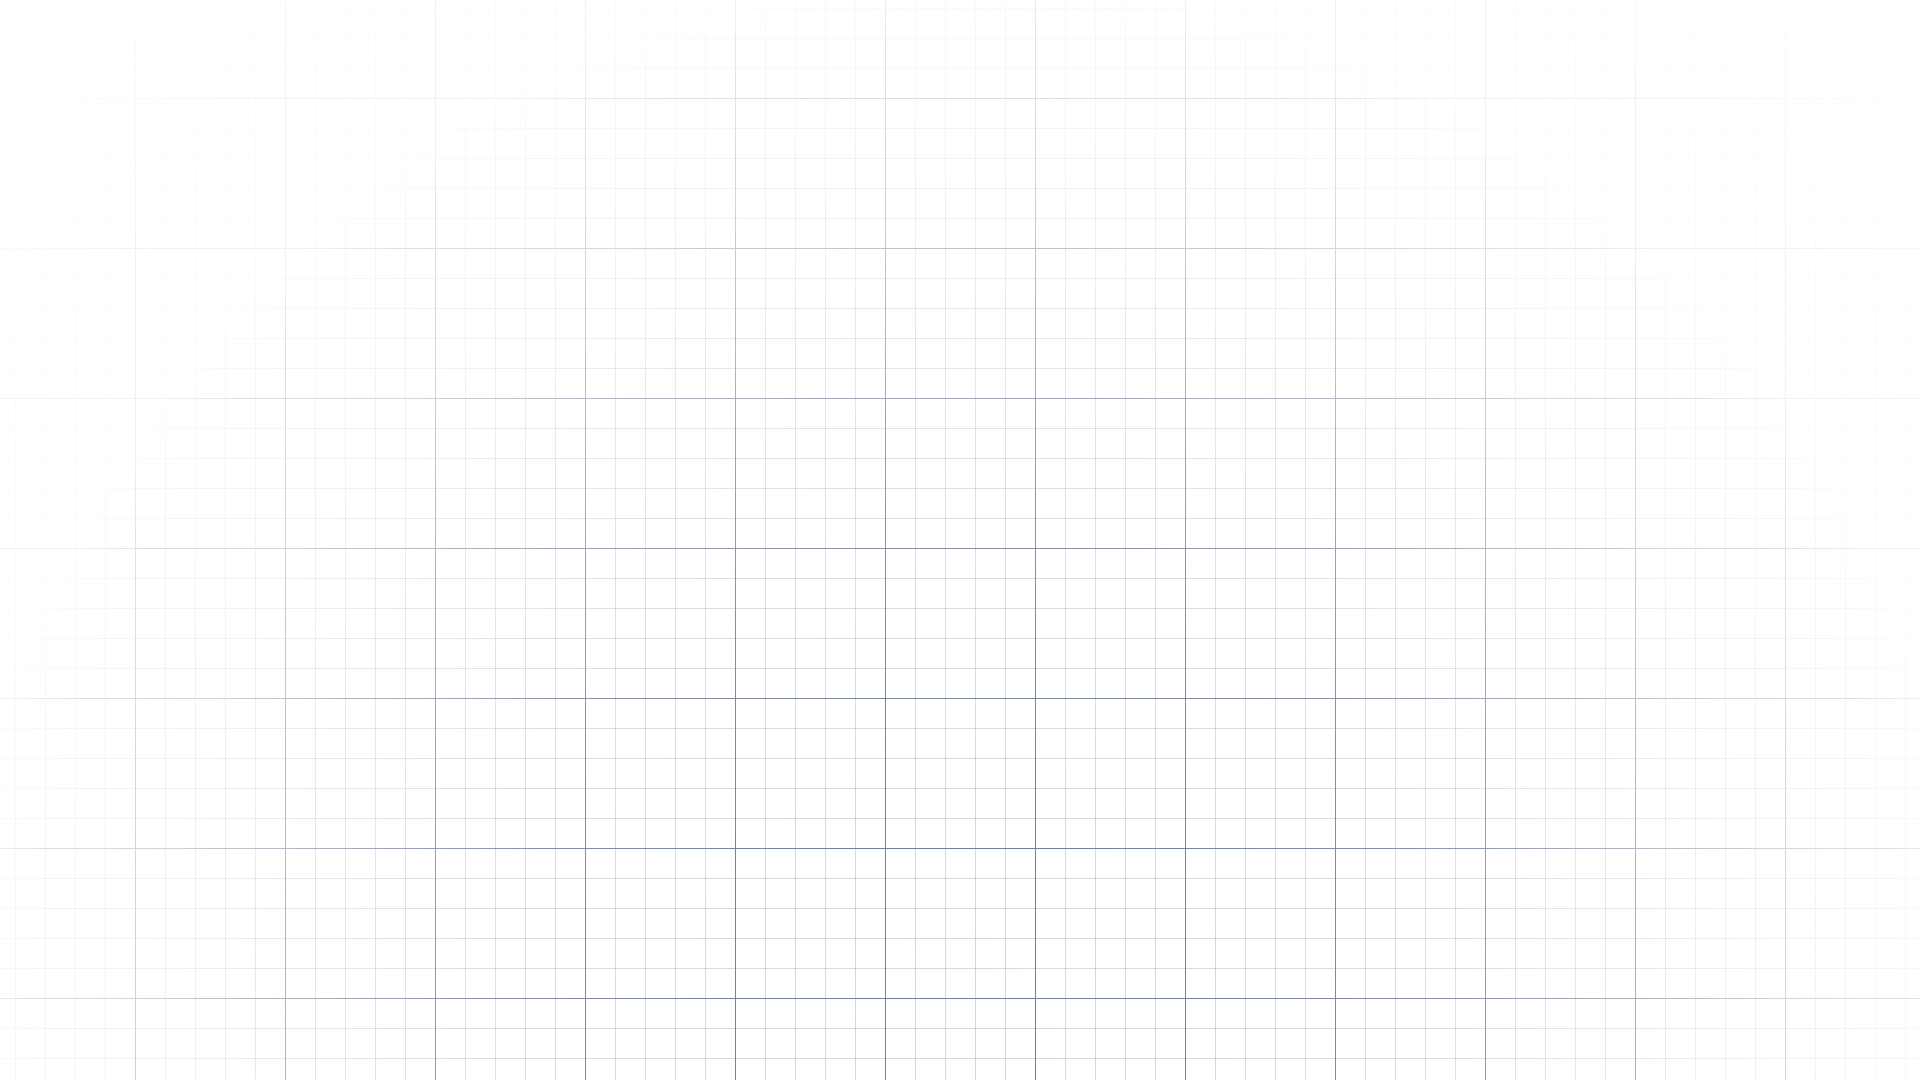
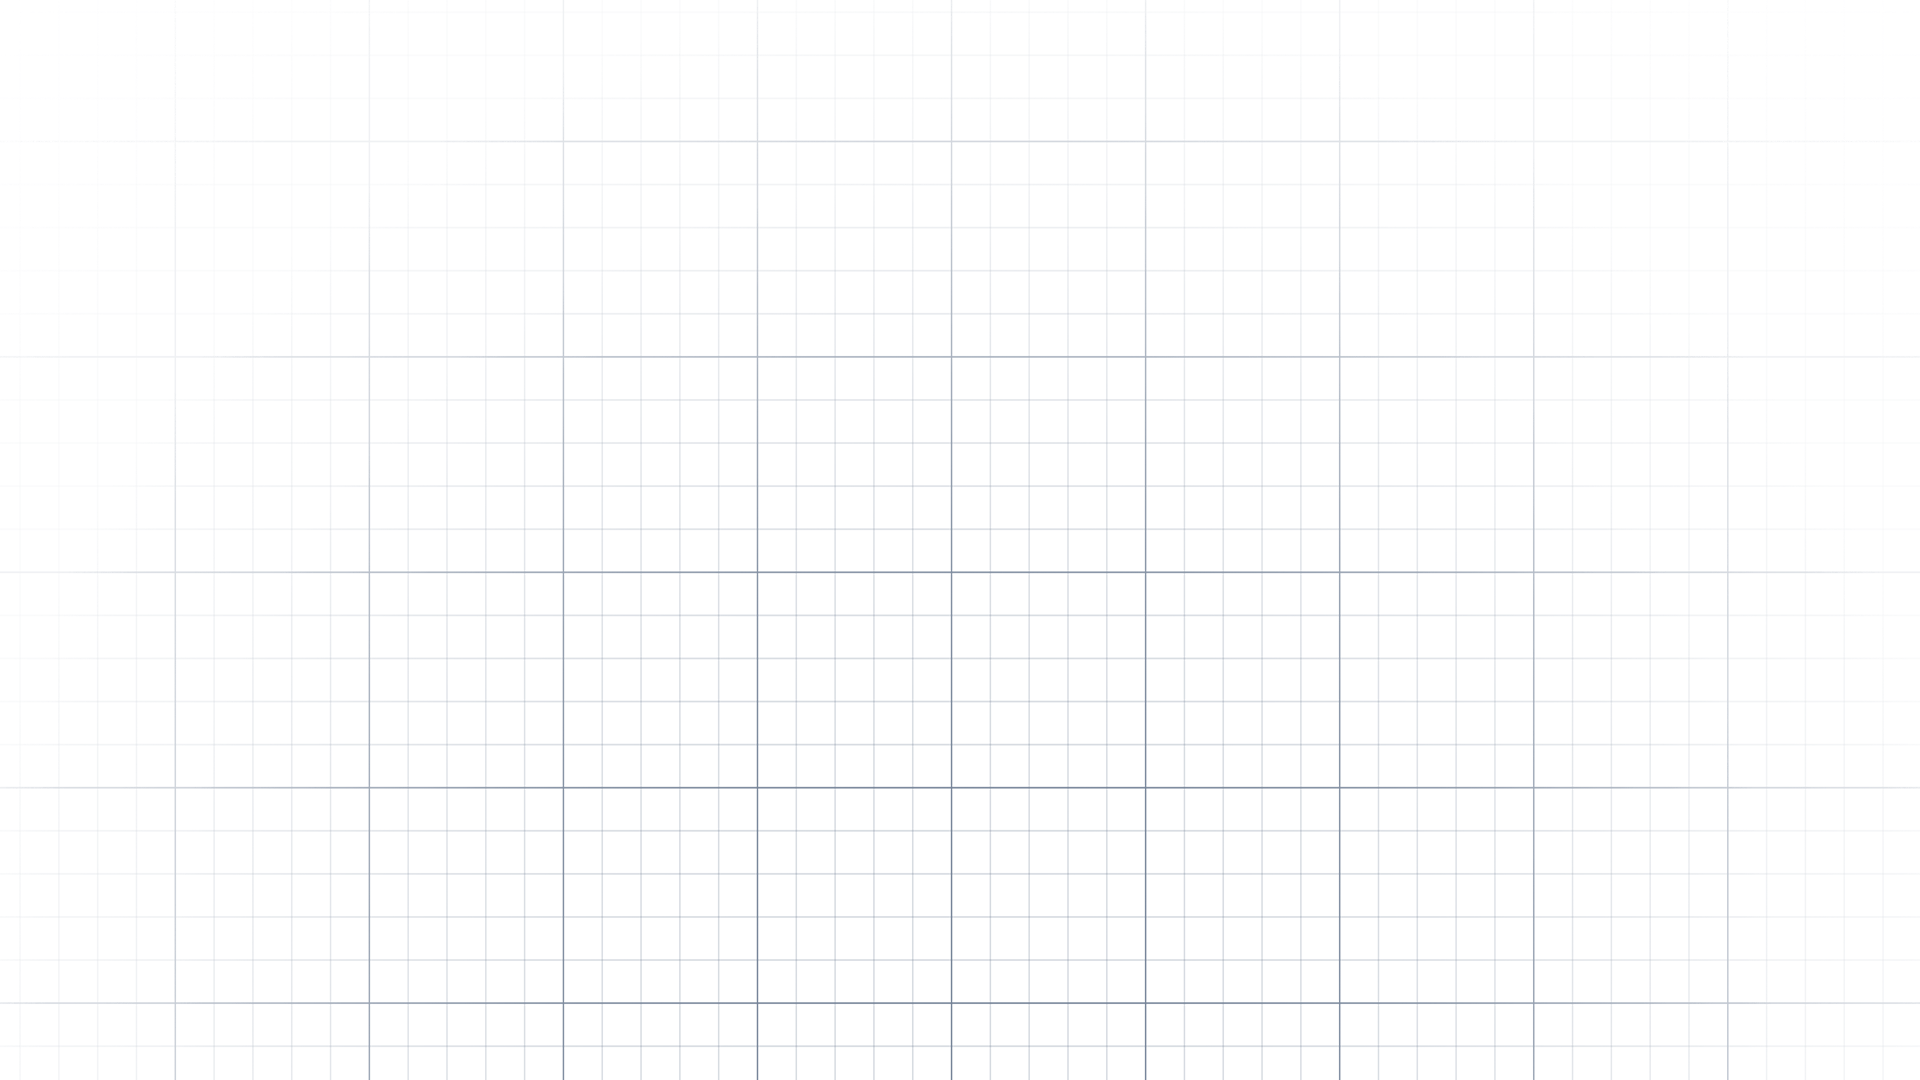
Complete process section for desktop

diff --git a/src/components/animation/process/design-dev.tsx b/src/components/animation/process/design-dev.tsx
@@ -1,0 +1,98 @@
+'use client'
+
+import {motion, useScroll, useTransform} from 'framer-motion'
+import Image from 'next/image'
+import {useEffect, useRef, useState} from 'react'
+
+export const DesignDevAnimation = () => {
+  const container = useRef(null) //@ts-ignore
+  const {scrollYProgress} = useScroll({target: container, offset: ['center end', 'end start']})
+  const scale = useTransform(scrollYProgress, [0, 0.35], [1, 1.11])
+  const typing = useTransform(scrollYProgress, [0, 0.15], [0, 36])
+  const [progress, setProgress] = useState<number>(0)
+  const [typingProgress, setTypingProgress] = useState<number>(0)
+  const typingLine = 'npx create-next-app@latest your-site'
+
+  useEffect(() => {
+    const clearScrollProgress = scrollYProgress.on('change', (value) => setProgress(value * 100))
+    const clearTypingProgress = typing.on('change', (value) => setTypingProgress(Math.ceil(value)))
+    return () => {
+      clearScrollProgress()
+      clearTypingProgress()
+    }
+  }, [])
+
+  return (
+    <div ref={container} className="relative m-16">
+      <motion.div className="relative origin-top-left" style={{scale}}>
+        <Image src="/images/process/design-dev-background.png" alt="Request Background" width="1460" height="1139" />
+        <div className="absolute text-[0.61rem] font-mono text-white px-2 py-1" style={{left: '28%', right: '2%', top: '35%', bottom: '18%'}}>
+          <p>
+            <span className="text-slate-400">{'> '}</span>
+            <span>{typingLine.substring(0, typingProgress)}</span>
+            {typingProgress < 36 && <span>|</span>}
+          </p>
+          {progress > 15 && (
+            <p>
+              {progress <= 20 && <span className="text-sky-400">? </span>}
+              {progress > 20 && <span className="text-green-400">✔ </span>}
+              <span>Would you like to use </span>
+              <span className="text-indigo-400">Typescript</span>
+              <span>? </span>
+              <span className="text-slate-400">…</span>
+              <span> No / </span>
+              <span className="text-sky-400 underline">Yes</span>
+            </p>
+          )}
+          {progress > 20 && (
+            <p>
+              {progress <= 25 && <span className="text-sky-400">? </span>}
+              {progress > 25 && <span className="text-green-400">✔ </span>}
+              <span>Would you like to use </span>
+              <span className="text-indigo-400">ESLint</span>
+              <span>? </span>
+              <span className="text-slate-400">…</span>
+              <span> No / </span>
+              <span className="text-sky-400 underline">Yes</span>
+            </p>
+          )}
+          {progress > 25 && (
+            <p>
+              {progress <= 30 && <span className="text-sky-400">? </span>}
+              {progress > 30 && <span className="text-green-400">✔ </span>}
+              <span>Would you like to use </span>
+              <span className="text-indigo-400">TailwindCSS</span>
+              <span>? </span>
+              <span className="text-slate-400">…</span>
+              <span> No / </span>
+              <span className="text-sky-400 underline">Yes</span>
+            </p>
+          )}
+          {progress > 30 && (
+            <p>
+              {progress <= 34 && <span className="text-sky-400">? </span>}
+              {progress > 34 && <span className="text-green-400">✔ </span>}
+              <span>Would you like to use </span>
+              <span className="text-indigo-400">`src/` directory</span>
+              <span>? </span>
+              <span className="text-slate-400">…</span>
+              <span> No / </span>
+              <span className="text-sky-400 underline">Yes</span>
+            </p>
+          )}
+          {progress > 34 && (
+            <p>
+              <span className="text-sky-400">? </span>
+              <span>Would you like to use </span>
+              <span className="text-indigo-400">App Router</span>
+              <span>? </span>
+              <span className="text-slate-400">…</span>
+              <span> No / </span>
+              <span className="text-sky-400 underline">Yes</span>
+            </p>
+          )}
+        </div>
+      </motion.div>
+    </div>
+  )
+}

diff --git a/src/components/sections/process.tsx b/src/components/sections/process.tsx
@@ -6,6 +6,9 @@ import {Subheading} from '../atoms/subheading'
 import {Section} from '../layout/section'
 import Image from 'next/image'
 import {Button} from '../atoms/button'
+import {RequestAnimation} from '../animation/process/request'
+import {DesignDevAnimation} from '../animation/process/design-dev'
+import {EvolutionAnimation} from '../animation/process/evolution'
 
 type Content = {
   heading: string
@@ -29,7 +32,8 @@ export const Process: FC<{content: Content}> = ({content}) => {
         </Heading>
       </div>
       {content.steps.map(({id, heading, text}, index) => (
-        <div key={index} className="sticky mt-16" style={{top: `${15 + index * 7}rem`}}>
+        <div key={index} className="sticky mt-12" style={{top: `${15 + index * 5}rem`}}>
+          <div className="absolute -top-16 h-32 w-full bg-gradient-to-t from-white via-white/80 dark:from-[#0E1117] dark:via-[#0E1117]" />
           <Card className="grid grid-cols-1 gap-y-16 md:grid-cols-2">
             <div className="p-16 pr-0">
               <div className="flex items-start gap-4 mb-1">
@@ -42,19 +46,22 @@ export const Process: FC<{content: Content}> = ({content}) => {
                 <span dangerouslySetInnerHTML={{__html: text}} />
               </Paragraph>
             </div>
-            <div className="relative overflow-visible">
-              <div className="absolute top-0 left-0 -bottom-32 -right-56">
-                <Image src="/images/background-grid.png" alt="Background Grid" fill className="object-cover object-left-top" />
+            <div className="relative overflow-hidden">
+              <div className="absolute h-2/3 left-0 bottom-0 -right-64">
+                <Image src="/images/background-grid.png" alt="Background Grid" fill className="object-cover object-left-top opacity-50" />
                 <div
-                  className="absolute bottom-0 left-1/2 -translate-x-1/2 bg-indigo-400 w-3/4 h-32 blur-3xl opacity-50"
+                  className="absolute -bottom-16 left-1/2 -translate-x-1/2 bg-indigo-400 w-3/4 h-32 blur-3xl opacity-30"
                   style={{borderRadius: '50% 50%'}}
                 />
               </div>
+              {index === 0 && <RequestAnimation />}
+              {index === 1 && <DesignDevAnimation />}
+              {index === 2 && <EvolutionAnimation />}
             </div>
           </Card>
         </div>
       ))}
-      <div className="sticky h-96 bg-gradient-to-t from-white dark:from-[#0E1117] pb-24 flex items-end justify-center gap-x-2">
+      <div className="sticky h-64 bg-gradient-to-t from-white via-white dark:from-[#0E1117] dark:via-[#0E1117] pb-24 flex items-end justify-center gap-x-2">
         <Button>{content.cta.primary}</Button>
         <Button secondary>{content.cta.secondary}</Button>
       </div>

diff --git a/src/components/animation/process/evolution.tsx b/src/components/animation/process/evolution.tsx
@@ -1,0 +1,46 @@
+'use client'
+
+import {motion, useScroll, useTransform} from 'framer-motion'
+import Image from 'next/image'
+import {useEffect, useRef, useState} from 'react'
+
+export const EvolutionAnimation = () => {
+  const container = useRef(null) //@ts-ignore
+  const {scrollYProgress} = useScroll({target: container, offset: ['center end', 'end start']})
+  const scale = useTransform(scrollYProgress, [0, 0.29], [1, 1.11])
+  const x = useTransform(scrollYProgress, [0, 0.15], ['-33%', '0%'])
+  const y = useTransform(scrollYProgress, [0.12, 0.29], ['100%', '0%'])
+  const typing = useTransform(scrollYProgress, [0.2, 0.29], [0, 16])
+  const [progress, setProgress] = useState<number>(0)
+  const [typingProgress, setTypingProgress] = useState<number>(0)
+  const typingLine = 'New Feature Page'
+
+  useEffect(() => {
+    const clearScrollProgress = scrollYProgress.on('change', (value) => setProgress(value * 100))
+    const clearTypingProgress = typing.on('change', (value) => setTypingProgress(Math.ceil(value)))
+    return () => {
+      clearScrollProgress()
+      clearTypingProgress()
+    }
+  }, [])
+
+  return (
+    <div ref={container} className="relative m-16">
+      <motion.div className="relative origin-top-left" style={{scale}}>
+        <Image src="/images/process/evolution-background.png" alt="Evolution Background" width="1460" height="1139" />
+      </motion.div>
+      <motion.div className="absolute inset-0 origin-top-left" style={{x, scale}}>
+        <Image src="/images/process/evolution-card.png" alt="Evolution Card" width="1460" height="1139" />
+      </motion.div>
+      <motion.div className="absolute inset-0 origin-top-left" style={{y, scale}}>
+        <Image src="/images/process/evolution-figma.png" alt="Evolution Figma Window" width="1460" height="1139" />
+        <div className="absolute flex items-center px-1.5 text-[0.7rem] text-black" style={{left: '38%', right: '37%', top: '53%', bottom: '40%'}}>
+          <p>
+            <span>{typingLine.substring(0, typingProgress)}</span>
+            {typingProgress < 16 && <span>|</span>}
+          </p>
+        </div>
+      </motion.div>
+    </div>
+  )
+}

diff --git a/src/components/animation/rotate.tsx b/src/components/animation/rotate.tsx
@@ -4,9 +4,9 @@ import {FC, ReactNode, Children, useState, useEffect} from 'react'
 
 export const Rotate: FC<{children: ReactNode; speed?: number; className?: string}> = ({children, speed = 1500, className = ''}) => {
   const array = Children.toArray(children)
-  const [currentIndex, setCurrentIndex] = useState<number>(0)
+  const [index, setIndex] = useState<number>(0)
   useEffect(() => {
-    const id = setInterval(() => setCurrentIndex((id) => (id === array.length - 1 ? 0 : id + 1)), speed)
+    const id = setInterval(() => setIndex((id) => (id === array.length - 1 ? 0 : id + 1)), speed)
     return () => {
       clearInterval(id)
     }
@@ -14,21 +14,16 @@ export const Rotate: FC<{children: ReactNode; speed?: number; className?: string
 
   return (
     <div className={`relative ${className}`}>
-      <AnimatePresence initial={false}>
-        {Children.map(children, (child, index) => {
-          if (index === currentIndex)
-            return (
-              <motion.div
-                key={index}
-                initial={{y: '-100%', opacity: 0}}
-                animate={{y: 0, opacity: 1}}
-                exit={{opacity: 0, transition: {duration: 0.2}}}
-                className="absolute whitespace-nowrap top-0 left-0"
-              >
-                {child}
-              </motion.div>
-            )
-        })}
+      <AnimatePresence>
+        <motion.div
+          key={index}
+          initial={{y: '-100%', opacity: 0}}
+          animate={{y: 0, opacity: 1}}
+          exit={{opacity: 0, transition: {duration: 0.2}}}
+          className="absolute whitespace-nowrap top-0 left-0"
+        >
+          {array[index]}
+        </motion.div>
       </AnimatePresence>
     </div>
   )

diff --git a/src/components/animation/process/request.tsx b/src/components/animation/process/request.tsx
@@ -1,0 +1,24 @@
+'use client'
+
+import {motion, useScroll, useTransform} from 'framer-motion'
+import Image from 'next/image'
+import {useRef} from 'react'
+
+export const RequestAnimation = () => {
+  const container = useRef(null) //@ts-ignore
+  const {scrollYProgress} = useScroll({target: container, offset: ['center end', 'end start']})
+  const x = useTransform(scrollYProgress, [0, 0.4], ['0%', '53%'])
+  const y = useTransform(scrollYProgress, [0, 0.06, 0.12, 0.4], [0, 16, 24, 0])
+  const scale = useTransform(scrollYProgress, [0, 0.4], [1, 1.11])
+
+  return (
+    <div ref={container} className="relative my-16 ml-16">
+      <motion.div className="origin-top-left" style={{scale}}>
+        <Image src="/images/process/request-background.png" alt="Request Background" width="1460" height="1139" />
+      </motion.div>
+      <motion.div className="absolute inset-0 origin-top-left" style={{x, y, scale}}>
+        <Image src="/images/process/request-card.png" alt="Request Card" width="1460" height="1139" />
+      </motion.div>
+    </div>
+  )
+}

diff --git a/src/components/layout/section.tsx b/src/components/layout/section.tsx
@@ -1,5 +1,9 @@
 import {FC, ReactNode} from 'react'
 
-export const Section: FC<{children?: ReactNode; className?: string}> = ({children, className}) => {
-  return <section className={`relative mx-auto w-full max-w-screen-xl px-6 sm:px-8 lg:px-12 ${className}`}>{children}</section>
+export const Section: FC<{children?: ReactNode; id?: string; className?: string}> = ({children, id, className}) => {
+  return (
+    <section id={id} className={`relative mx-auto w-full max-w-screen-xl px-6 sm:px-8 lg:px-12 ${className}`}>
+      {children}
+    </section>
+  )
 }

diff --git a/src/app/[lang]/layout.tsx b/src/app/[lang]/layout.tsx
@@ -15,9 +15,9 @@ export const metadata = getMetadata({}).metadata
 
 export default async function Layout({children}: {children: React.ReactNode}) {
   return (
-    <html lang="de" className={`${lato.variable} ${sora.variable} ${mono.variable}`}>
+    <html lang="de" className={`relative ${lato.variable} ${sora.variable} ${mono.variable}`}>
       <head />
-      <body>
+      <body className="overflow-x-hidden">
         {/* eslint-disable-next-line @next/next/no-before-interactive-script-outside-document */}
         <Script
           id="check-theme"
